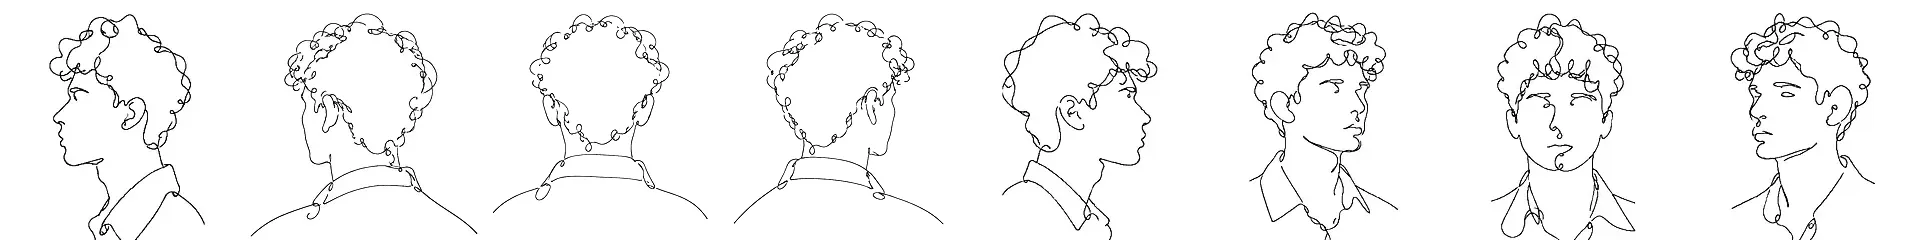
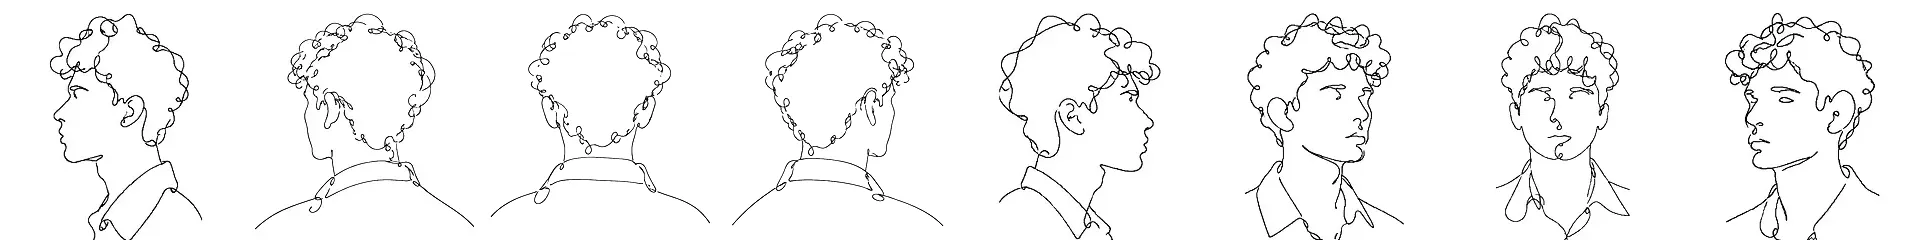
v2 preview: steady turnaround, Back link on inner pages
Scale each drawing so the chin (or collar line from behind) lands at the
same height in every frame, not just the hair top, which stops the loop
bobbing. Add a « Back link opposite Work | About on every page but home:
it goes to the previous page, or to the work list on a direct visit.

Claude-Session: https://claude.ai/code/session_0168aHRphf9dzANVDPXHjhgS

diff --git a/v2/v2.js b/v2/v2.js
@@ -152,8 +152,14 @@
     if (parts[0] === "privacy") return { name: "", html: privacy() };
     return { name: "", html: notFound() };
   }
+  // "« Back": goes to the previous page on this site, or to the work list if the visitor landed here directly
+  let inSite = false;
+  const back = document.getElementById("back");
+  back.addEventListener("click", (e) => { if (inSite) { e.preventDefault(); history.back(); } });
+
   function render(top = true) {
     const r = route();
+    back.hidden = !location.hash.replace(/^#\/?/, "").replace(/^work\/?$/, "");
     view.innerHTML = r.html;
     document.querySelectorAll("[data-nav]").forEach((a) => {
       const on = a.dataset.nav === r.name;
@@ -164,10 +170,10 @@
     document.title = !h ? `${S.name}, Industrial Design Portfolio` : `${h.textContent} - ${S.name}`;
     if (top) { window.scrollTo(0, 0); view.focus({ preventScroll: true }); }
   }
-  addEventListener("hashchange", () => render());
+  addEventListener("hashchange", () => { inSite = true; render(); });
 
   // turnaround sprite: frames sit side by side, so the frame count is width / height
-  const TURN = "../assets/turnaround/turn.webp?v=2";
+  const TURN = "../assets/turnaround/turn.webp?v=3";
   const turnImg = new Image();
   turnImg.onload = () => document.documentElement.style.setProperty("--turn-n", Math.round(turnImg.naturalWidth / turnImg.naturalHeight));
   turnImg.src = TURN;

diff --git a/v2/v2.css b/v2/v2.css
@@ -31,7 +31,8 @@ ul { margin: 0 0 1em; padding-left: 40px; }
 blockquote { margin: 1em 40px; }
 
 .page { max-width: 1240px; margin: 0 auto; padding: 0 16px; }
-.top { margin: 0; text-align: right; }
+.top { margin: 0; display: flex; justify-content: space-between; align-items: baseline; }
+.top .nav { margin-left: auto; }
 .top a.is-active { color: #000; text-decoration: none; font-weight: bold; }
 
 /* home header: the turnaround loop beside the name */
@@ -40,7 +41,7 @@ blockquote { margin: 1em 40px; }
 .turn {
   --size: 120px;
   flex: none; width: var(--size); height: var(--size);
-  background: url(../assets/turnaround/turn.webp?v=2) 0 0 / calc(var(--turn-n, 1) * var(--size)) var(--size) no-repeat;
+  background: url(../assets/turnaround/turn.webp?v=3) 0 0 / calc(var(--turn-n, 1) * var(--size)) var(--size) no-repeat;
   animation: turn calc(var(--turn-n, 1) * .17s) steps(var(--turn-n, 1)) infinite;
 }
 @keyframes turn { to { background-position: calc(var(--turn-n, 1) * var(--size) * -1) 0; } }

diff --git a/v2/index.html b/v2/index.html
@@ -11,7 +11,8 @@
 <body>
   <div class="page">
     <p class="top" role="navigation" aria-label="Main">
-      <a href="#/" data-nav="home">Work</a> | <a href="#/about" data-nav="about">About</a>
+      <a href="#/" id="back" hidden>&laquo; Back</a>
+      <span class="nav"><a href="#/" data-nav="home">Work</a> | <a href="#/about" data-nav="about">About</a></span>
     </p>
 
     <main id="view" tabindex="-1"></main>
